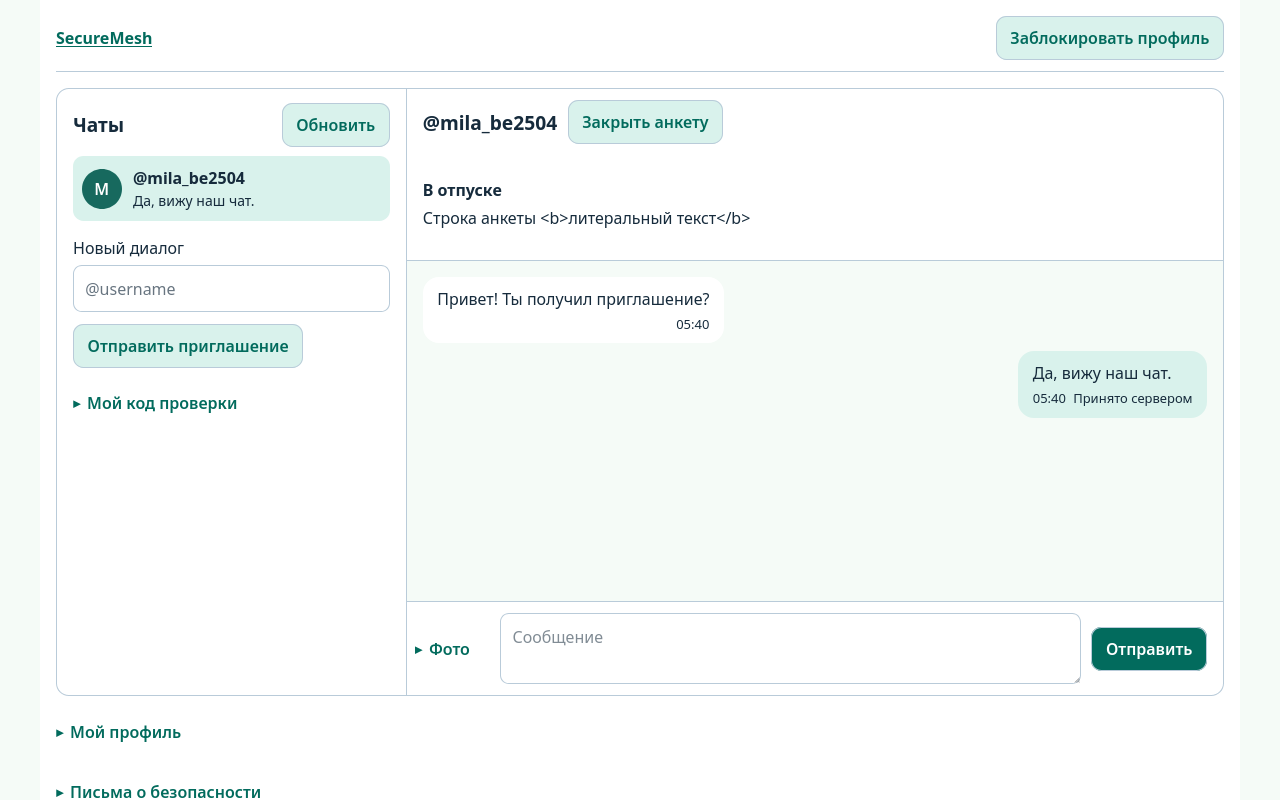
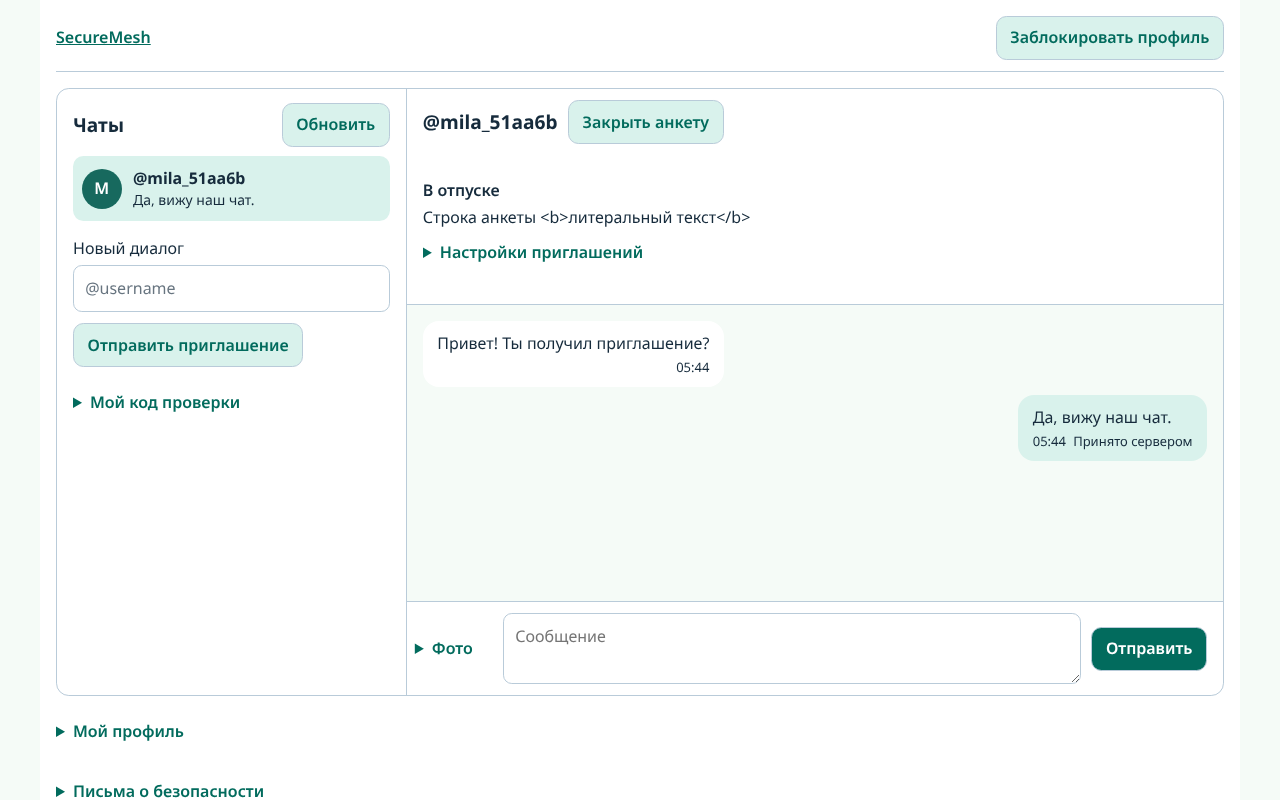
Protect mobile chat space and clear invitation state when the profile closes

diff --git a/site/app/profile.html b/site/app/profile.html
@@ -128,9 +128,12 @@
               <p id="peer-profile-note" role="status"></p>
               <p id="peer-profile-status" hidden></p>
               <p id="peer-profile-bio" hidden></p>
-              <p id="peer-block-description">Блокировка убирает ожидающие входящие приглашения от этого аккаунта и запрещает новые. Фото профиля, описание и статус скрываются для вас обоих. Сообщения в существующем чате по-прежнему доступны.</p>
-              <button type="button" id="peer-block" aria-describedby="peer-block-description">Проверить блокировку</button>
-              <p id="peer-block-note" aria-live="polite"></p>
+              <details id="peer-invitations">
+                <summary>Настройки приглашений</summary>
+                <p id="peer-block-description">Блокировка удаляет входящие приглашения от собеседника и запрещает новые. Вы перестанете видеть анкеты и фото друг друга. Переписка в этом чате продолжится.</p>
+                <button type="button" id="peer-block" aria-describedby="peer-block-description" disabled>Проверить блокировку</button>
+                <p id="peer-block-note" aria-live="polite"></p>
+              </details>
             </section>
           </div>
           <div id="timeline">

diff --git a/site/app/profile.css b/site/app/profile.css
@@ -239,6 +239,7 @@ main:has(#conversations:not([hidden])) #title {
 #peer-profile p { margin: .25rem 0; white-space: pre-wrap; }
 #peer-profile p:empty { display: none; }
 #peer-profile-status { font-weight: 650; }
+#peer-invitations { margin: .25rem 0 0; }
 #to-chats { display: none; }
 #timeline { overflow-y: auto; overscroll-behavior: contain; background: var(--bg); padding: 1rem; }
 #messages { display: grid; gap: .5rem; margin: 0; }

diff --git a/site/app/profile.js b/site/app/profile.js
@@ -239,6 +239,9 @@ function clearPeerProfile() {
   button.setAttribute("aria-expanded", "false");
   show("peer-profile", false);
   clearPeerFields();
+  byId("peer-invitations").open = false;
+  byId("peer-block").disabled = true;
+  byId("peer-block").textContent = "Проверить блокировку";
   byId("peer-block-note").textContent = "";
 }
 

diff --git a/tests/pwa/contact_blocks_browser.py b/tests/pwa/contact_blocks_browser.py
@@ -45,6 +45,7 @@ def exercise(origin, api_port, pin):
         note = owner.locator("#peer-block-note")
         path = "/v1/contact-blocks/" + peer_name
         toggle.click()
+        owner.locator("#peer-invitations summary").click()
         expect(bio).to_have_text("Видимая анкета", timeout=25_000)
         expect(action).to_have_text("Заблокировать приглашения")
         toggle.click()
@@ -70,6 +71,7 @@ def exercise(origin, api_port, pin):
           };
         }""")
         toggle.click()
+        owner.locator("#peer-invitations summary").click()
         expect(owner.locator("html")).to_have_attribute("data-held-profile", "1")
         action.click()
         expect(note).to_contain_text("Не удалось подтвердить изменение.")
@@ -95,11 +97,15 @@ def exercise(origin, api_port, pin):
         # Reload the established chat after locking and see server state again.
         owner.locator("#lock").click()
         expect(owner.locator("#peer-profile")).to_be_hidden()
+        expect(action).to_be_disabled()
+        expect(action).to_have_text("Проверить блокировку")
+        assert not owner.locator("#peer-invitations").evaluate("panel => panel.open")
         expect(bio).to_have_text("")
         owner.locator("#password").fill(owner_password)
         owner.locator("#enter").click()
         row.click()
         toggle.click()
+        owner.locator("#peer-invitations summary").click()
         expect(action).to_have_text("Разблокировать")
 
         # DELETE has cross-origin authorization only for this route and origin.

diff --git a/reports/PRODUCT_HANDOFF_RU.md b/reports/PRODUCT_HANDOFF_RU.md
@@ -12,7 +12,7 @@
 | D. Платформы | На Chromium, Firefox и Linux WebKit проверены обмен MLS, блокировка, автономная очередь и архив. На Android API 35 проверены запуск и сокрытие карточки недавних приложений. | Повтор матрицы на одном кандидате, iOS/iPadOS, реальные уведомления, физические телефоны. [Матрица](PLATFORM_MATRIX.csv) · [Android до](evidence/android-recents-20261128/before.png) и [после](evidence/android-recents-20261128/after.png) |
 | E. Интерфейс | Двухпанельный браузерный чат на desktop, отдельный экран и черновики на телефоне. Счётчик непрочитанных в зашифрованном профиле сохраняется при блокировке и очищается после просмотра конца переписки. Проверены три браузерных движка. Независимый ревьюер проверил получение и отправку фото на 390×844 и 1280×800. | Пройти остальные экраны, клавиатуру, экранные ридеры и длинные беседы на целевых платформах. [Телефон](evidence/pwa-photo-review-20261128/phone-received.png) · [Desktop](evidence/pwa-photo-review-20261128/desktop-send.png) |
 | F. Медиа | Приватное фото прошло из PWA в нативный клиент и обратно на трёх движках. В Chromium проверены EXIF и повтор после потери подтверждения. На Linux локальный Whisper прошёл проверку в сетевой изоляции. | Платформенная приёмка голоса, кружочков, файлов и транскрибации. В синтетической речевой пробе точность русского текста недостаточна. [Медиа](../docs/PRIVATE_ATTACHMENTS_RU.md) |
-| G. Профили | Нативные аватары, QR имени, описание и текстовый статус. PWA и Flutter редактируют видимость. В подтверждённом диалоге PWA запрашивает анкету собеседника только при открытии. Закрытие и смена чата очищают сведения; запоздалый ответ игнорируется. Проверены Chromium, Firefox и Linux WebKit. [Анкета на телефоне](evidence/pwa-peer-profile-20261128/phone.png) · [Desktop](evidence/pwa-peer-profile-20261128/desktop.png) Сервер применяет двустороннюю блокировку к аватару и тексту. В трёх браузерах конфликт двух вкладок сохранил черновик, блокировка очистила DOM. | Настройки времени посещения и исключения, персональные изображения обоев, кроссплатформенность профилей. [Протокол](../docs/PROTOCOL.md) |
+| G. Профили | Нативные аватары, QR имени, описание и текстовый статус. PWA и Flutter редактируют видимость. В подтверждённом диалоге PWA запрашивает анкету собеседника только при открытии. Закрытие и смена чата очищают сведения. На Chromium проверены блокировка приглашений, потерянный ответ, запрет нового приглашения и разблокировка. Существующий чат продолжает доставлять сообщения. Проверены Chromium, Firefox и Linux WebKit. [Анкета на телефоне](evidence/pwa-peer-profile-20261128/phone.png) · [Desktop](evidence/pwa-peer-profile-20261128/desktop.png) Сервер применяет двустороннюю блокировку к аватару и тексту. В трёх браузерах конфликт двух вкладок сохранил черновик, блокировка очистила DOM. | Настройки времени посещения и исключения, персональные изображения обоев, кроссплатформенность профилей. [Протокол](../docs/PROTOCOL.md) |
 | H. Социальные функции | Текстовые каналы, хронологическая лента с курсором, закрепление одной публикации владельцем, реакции, редактирование, комментарии и удаление. Ограниченные каналы доступны по приглашению. Сервер читает их содержимое. | Медиа, канальные роли, модерация, выбранные аудитории, полноценные личные посты и криптографическая модель приватных групп и каналов. |
 | I. Устройства и звонки | Есть согласование нового устройства, контроль доступа к предыдущей истории, тесты членства и локальные тесты звонков. | Межплатформенные звонки, сетевые пути и метаданные, синхронизация, отзыв во всех группах. |
 | J. Безопасность | Для трёх Rust lock-файлов 0 известных уязвимостей по базе RustSec c5279d0b, одно предупреждение по обслуживанию. В PostgreSQL проверено упорядочивание восстановления и доступа к данным. В шаблоне nginx исправлена утечка пути и query в обычные журналы. На двух образах прошли контрольные запросы, WSS и загрузка до 4 МиБ + 16 байт. | Проверить зависимости и модель угроз всего релиза, инфраструктуру, доставку кода PWA и управление ключами. [Результат RustSec](evidence/product-rustsec.json) |
@@ -20,7 +20,7 @@
 
 ## Последняя контрольная точка
 
-Полный прогон Flutter с включённым локальным Whisper на c7f6712 прошёл 125 из 125 на Fedora. Независимый ревьюер сверил права на закрепление публикаций, конфликты ревизий, снятие закрепления при удалении и доказательства восстановления из PostgreSQL. После подтверждённой блокировки нативный клиент сразу скрывает аватар даже при неудаче следующего обновления каталога. На интеграционной проверке восстановления сеанса сервер отклонил HTTP/WSS-операции и все пути доступа к вложениям, которые ожидали блокировку. Для стабильного запуска этого теста на загруженном хосте использован DOTNET_PROCESSOR_COUNT=4. После одного ответа 503 при загрузке диапазона повторный полный прогон private_blobs прошёл с 4 МиБ, восстановлением PostgreSQL и двумя Dart VM. Восстановление из pg_dump между двумя изолированными БД проверяет расшифровку сообщения прежним устройством, права доступа, видимость профиля, закреплённый пост, ревизию закрепления и комментарий закрытого канала и повтор с теми же ID. [Проверки резервного копирования](../deploy/backups/README.md)
+Полный прогон Flutter с включённым локальным Whisper на c7f6712 прошёл 125 из 125 на Fedora. Независимый ревьюер сверил права на закрепление публикаций, конфликты ревизий, снятие закрепления при удалении и доказательства восстановления из PostgreSQL. После подтверждённой блокировки нативный клиент сразу скрывает аватар даже при неудаче следующего обновления каталога. На интеграционной проверке восстановления сеанса сервер отклонил HTTP/WSS-операции и все пути доступа к вложениям, которые ожидали блокировку. Для стабильного запуска этого теста на загруженном хосте использован DOTNET_PROCESSOR_COUNT=4. После одного ответа 503 при загрузке диапазона повторный полный прогон private_blobs прошёл с 4 МиБ, восстановлением PostgreSQL и двумя Dart VM. Восстановление из pg_dump между двумя изолированными БД проверяет расшифровку сообщения прежним устройством, права доступа, видимость профиля, закреплённый пост, его ревизию, комментарий закрытого канала и повтор с теми же ID. Миграция 113 очищает ссылку на удалённую старым API публикацию. Проверены запись старой версией после обновления, удаление устаревших строк и восстановление базы с закреплением. [Проверки резервного копирования](../deploy/backups/README.md)
 
 ## Доставка текста на эмулированной сети
 

diff --git a/deploy/PWA_RU.md b/deploy/PWA_RU.md
@@ -60,11 +60,11 @@ CSP разрешает только собственные скрипты и wor
 3. Отключите сеть, закройте приложение и откройте его с экрана «Домой». Проверьте запуск справки и открытие локального профиля. Для отправки и получения сообщений восстановите сеть.
 4. Сверьте в инструментах браузера список кешированных путей с пакетом. Убедитесь, что вызовы API проходят только к указанному узлу и что запрос с постороннего origin не получает разрешающий CORS‑заголовок.
 
-Артефакт предназначен для испытания. Публичный выпуск требует проверки на физическом iPhone, независимого аудита безопасности и разрешения владельца проекта.
+Артефакт предназначен для испытания. Публичный выпуск требует проверки на физическом iPhone, независимой проверки безопасности и прохождения приёмки на целевом сервере.
 
 ### Блокировка приглашений в подтверждённом чате
 
-Откройте «Анкета собеседника» и выберите «Заблокировать приглашения». Сервер скрывает ожидающие входящие приглашения от этого аккаунта и запрещает новые. Для обеих сторон скрываются фото профиля, описание и статус. Принятые приглашения и доставка сообщений в существующих чатах сохраняются. В той же анкете можно выбрать «Разблокировать».
+Откройте «Анкета собеседника», разверните «Настройки приглашений» и выберите «Заблокировать приглашения». Сервер отменяет ожидающие входящие приглашения от этого аккаунта и запрещает новые. Для обеих сторон скрываются фото профиля, описание и статус. Принятые приглашения и доставка сообщений в существующих чатах сохраняются. В той же анкете можно выбрать «Разблокировать».
 
 При открытии анкеты PWA сверяет блокировку с сервером. Если подтверждение изменения потерялось, кнопка «Повторить проверку» загружает текущее состояние перед следующим действием. Состояние блокировки и поля анкеты собеседника в локальном профиле не сохраняются. Вкладка очищает поля при блокировке, закрытии окна анкеты или смене чата.
 
